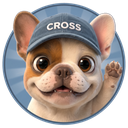
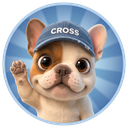
Откатить бледный прогон, принять bully_done эталоном, отдать якорю главенство
Прогон 07.09 забракован владельцем целиком: «бледная херня, некрасивые».
Пак откачен к 06.09, картинки остались в истории.

Две причины, и вторая важнее.

**Мерил не ту величину.** Сравнил среднюю яркость поля плашки — 163 против
эталонных 148 — и решил, что тон совпал. Цвет иконки живёт не в средней
яркости, а в профиле от края к центру. Замер оригинала кольцами: рамка
`#40814C` насыщенностью 65, поле `#95A67A` насыщенностью 44, центр почти
серый — цвет считывается с краешка и гаснет к середине, чтобы не спорить
с самой бульдожкой. У моего было поле насыщенностью 32 и перепад рамки
8 единиц вместо 52.

**Рядом лежала принятая иконка, а я описывал её словами.** `ANCHOR_NOTE`
в generate.py прямым текстом велел модели `Ignore its pose, its crop and
its background` — якорь подавался как образец одной фактуры, а плашку, кадр
и позу задание задавало заново прозой. Отсюда все метания: три захода
на палитру, два на кадр, каждая новая клауза сдвигала кадр, и поза уехала
тоже — бульдожка вышел суше и тоньше принятого.

Оговорка снята. С якоря копируется всё: поза, кадр, плашка с рамкой
и переходом тонов, свет. Подстановка меняет цвет, выражение и предмет,
и только их. Правило: **есть принятая картинка — она главнее описания.**

`bully_done` из прогона 06.09 объявлен эталоном пака и больше
не перегенерируется: пять попыток его догнать ни одна не догнала.
Остальные пятнадцать гонять с ним в якоре.

Плашка в задании описана тремя зонами с замеренными числами: толстая
[…]

diff --git a/иконки/generate.py b/иконки/generate.py
@@ -60,14 +60,33 @@ DEFAULT_REFS = ["bulli-ref.png", "bully-style-ref.png"]
 
 # Фраза из `prompt-stickers.md`: она и есть приём, которым держится стиль
 # поштучных прогонов — второй образец подтверждает, что первый не случайность.
+# Якорь — принятая иконка, и она в этом паке главнее описания словами.
+#
+# Раньше здесь стояло «Ignore its pose, its crop and its background»: якорь
+# подавался как образец одной фактуры, а кадр, плашку и позу задание описывало
+# заново словами. Это и оказалось причиной, по которой пак раз за разом
+# приходил не тем: описание словами проигрывает картинке, и каждая новая
+# клауза про плашку сдвигала кадр. Прогоны 06–07.09 — три захода на палитру
+# и два на кадр, и всё это время принятая иконка лежала рядом неиспользованной.
+#
+# Теперь наоборот: с якоря копируется ВСЁ, кроме того, что подстановка меняет
+# явно, — поза, кадр, плашка, её рамка и переход тонов, свет. Подстановка
+# меняет цвет, выражение и предмет, и только их.
 ANCHOR_NOTE = (
-    "The last attached image is an approved image of this character. Match its "
-    "STYLE exactly and only its style: the same 3D render, the same fine fur "
-    "with individual hairs, the same soft studio lighting and shading, the same "
-    "freckles and whiskers on the muzzle, the same worn fabric texture on the "
-    "cap, the same huge glossy eyes with the same highlights. Ignore its pose, "
-    "its crop and its background — those come from the instructions above, not "
-    "from it. Do not copy its background."
+    "The last attached image is the APPROVED icon of this set. It is the "
+    "master: copy it as closely as you can. Reproduce EXACTLY, without "
+    "redesigning any of it — the same 3D render, the same fine fur with "
+    "individual hairs, the same soft studio lighting and shading, the same "
+    "freckles and whiskers, the same worn fabric texture on the cap, the same "
+    "huge glossy eyes with the same highlights; the same round badge at the "
+    "same size in the frame, with the same thick vivid rim and the same fade "
+    "from the bright ring inwards to the paler centre behind his head; the "
+    "same camera distance, the same crop, the same chubby proportions and the "
+    "same amount of him showing. Think of it as the same photograph retouched, "
+    "not as a new picture of the same character. Change ONLY the three things "
+    "the instructions above name for this one image: the dye colour, the "
+    "expression and the object. Everything else must match the approved icon "
+    "pixel for pixel as far as you can manage."
 )
 
 MIME = {".png": "image/png", ".jpg": "image/jpeg", ".jpeg": "image/jpeg",

diff --git a/иконки/prompt-each.md b/иконки/prompt-each.md
@@ -88,7 +88,7 @@ THE OBJECT: where an object is listed, it is FLAT MATTE WHITE — pure white,
 whatever colour such a thing would normally be — so that it stays visible on
 any badge colour. It is about ONE THIRD of the diameter of the badge — big enough
 to read when the image is shrunk to 21 x 21 pixels, small enough that it never
-makes the head smaller. Simple and low on detail, a silhouette rather than
+makes the head smaller and never makes him thinner. Simple and low on detail, a silhouette rather than
 a drawing. It sits in the lower half of the badge beside the muzzle, in FRONT
 of him, and it may overlap his jowl or his chin; it never covers his eyes or
 his cap, it never pushes him back or down, and it is the ONLY extra object. Where nothing else is listed, the image contains the
@@ -98,48 +98,35 @@ THE BADGE: where the line below starts with the word BADGE and a colour, the
 character is not alone on empty background. He sits inside one big round badge
 of that colour which fills almost the whole image: a complete filled circle,
 centred, its diameter about nine tenths of the width of the image, leaving only
-a thin margin of grey background at the four corners. Nothing is drawn outside
-the circle, and nothing sticks out of it.
+a thin margin of grey background at the four corners.
 
-The badge is LIGHT and airy, never dark and never heavy: the colour named
-below is its colour, and behind his head it lifts a shade lighter still, like
-a soft studio backdrop. A thin ring one shade deeper runs around the very edge,
-and that ring is the only hard edge in it. There may be a few very wide, very
-soft rays a shade lighter than the field, spreading from behind his head — but
-they are barely there, blurred and low in contrast: never dark wedges, never
-sharp spokes, never a second colour, never white. Shrunk to 21 x 21 pixels the
-whole badge must read as one clear light colour and not as a pattern. Nothing
-else is drawn inside the circle. A thin darker ring of the same colour runs around the
-outer edge of the badge, and that ring is the only detail in it. All of it
-stays low in contrast, so that shrunk to 21 x 21 pixels the badge reads as one
-clear solid colour.
+The badge has three zones, from the edge inwards, and the first of them is what
+makes it look like a badge at all:
 
-THE HEAD IS BIGGER THAN THE BADGE AND THE BADGE CROPS IT. He is framed like a
-portrait in a round frame, not like a small figure standing on a coloured disc.
-Place him by these landmarks, and check every one of them:
+1. **A THICK, VIVID RIM.** A bold ring of strong saturated colour running all
+   the way around the edge of the circle. It is THICK — about one twentieth of
+   the badge's diameter, a band you notice, not a hairline. It is the most
+   SATURATED colour in the whole image, and clearly DARKER than the field
+   inside it. Its exact colour is named for each image below. This rim is what
+   makes the badge read as a badge at 21 x 21 pixels; without it the icon
+   looks like a pale washed-out blob.
+2. **A BRIGHT FIELD** just inside the rim, in the lighter, less saturated shade
+   named below. The rim does not fade into it — it is a distinct band with
+   a visible inner edge.
+3. **A PALER, SOFTER CENTRE** behind his head, where the field lightens and
+   desaturates so that it does not compete with him. The transition from the
+   bright field to the pale centre is smooth.
 
-- the tip of his LEFT ear touches the rim of the badge at about 10 o'clock;
-- the tip of his RIGHT ear touches the rim at about 2 o'clock;
-- the crown of his cap touches the rim at 12 o'clock, and the rim CUTS the top
-  of the cap off — the badge is in front of him and he simply ends where it
-  ends;
-- his eyes sit on the horizontal centre line of the badge;
-- his jowls almost touch the rim on the left and on the right at 9 and
-  3 o'clock;
-- his chin and the very top of his chest run off the BOTTOM of the badge and
-  are cut off by the rim there too.
+So the colour runs vivid at the edge, bright next to it, pale behind the dog.
+Nothing else is drawn inside the circle: no rays, no spokes, no stripes,
+no pattern, no white.
 
-The simplest way to get this right: draw him FIRST, at exactly the size and
-crop he has in the attached portrait — that close, that big, filling the frame
-the same way — and only then put the badge in BEHIND him. The badge does not
-change his size at all. It is a round window he is leaning through, and the
-window is SMALLER than his head, so it crops him top, left and right.
-
-There is NO ring of empty badge colour anywhere around him — going inward from
-the rim at the top, the very next thing is his cap. Do NOT shrink him to fit
-inside the circle, do NOT leave a margin of badge colour around him, do NOT
-zoom out to show his shoulders, his front legs or his whole body. Where a mark or an object is
-listed, it sits inside the circle in the lower half, beside the muzzle.
+THE CHARACTER IN THE BADGE: he is chubby, round-cheeked and cute, with heavy
+soft jowls, drawn at the same size and the same distance as in the attached
+images — head large in the frame, his cap and both ears reaching the rim of the
+badge, his chest and the tops of his front paws showing below his muzzle. Do
+NOT slim him down, do NOT tighten the crop around his face, do NOT zoom out and
+leave a ring of empty badge colour above his cap.
 
 Where the line below does not start with BADGE, there is no badge at all: no
 circle, no rays, no gradient.
@@ -366,50 +353,62 @@ no label, no watermark, no border, no frame.
 
 | файл | `<ЯЧЕЙКА>` |
 |---|---|
-| `bully_ready` | `BADGE soft denim blue #6690B5. Cap dyed deeper slate blue #6A7A8C. Chin lifted proudly, wide happy open smile, one front paw raised in a confident presenting gesture. No object.` |
-| `bully_done` | `BADGE light sage green #89A074. Cap dyed deeper green #698265. Eyes closed in a satisfied happy smile, a big flat WHITE check mark beside the muzzle in the lower half of the badge.` |
-| `bully_fail` | `BADGE light warm red #CA6660. Cap dyed deeper red #A8504E. Sad apologetic face: mouth a small unhappy downturned line, eyebrows pulled up in the middle, head dipped slightly. The ears stay big and upright exactly as in the references, and the eyes stay exactly as in the references — huge, round, glossy, cartoon dark-brown with the same big white highlights. They are not realistic dog eyes, not watery, not teary, not narrowed. A big flat WHITE cross mark beside the muzzle in the lower half of the badge.` |
-| `bully_hi` | `BADGE soft denim blue #6690B5. Cap dyed deeper slate blue #6A7A8C. One front paw raised high beside the muzzle waving hello, big warm open smile. No object.` |
+| `bully_ready` | `BADGE with a thick vivid rim #395B7A and a field of soft denim blue #6690B5. Cap dyed deeper slate blue #6A7A8C. Chin lifted proudly, wide happy open smile, one front paw raised in a confident presenting gesture. No object.` |
+| `bully_done` | `BADGE with a thick vivid rim #40814C and a field of light sage green #95A67A. Cap dyed deeper green #698265. Eyes closed in a satisfied happy smile, a big flat WHITE check mark beside the muzzle in the lower half of the badge.` |
+| `bully_fail` | `BADGE with a thick vivid rim #86322D and a field of light warm red #CA6660. Cap dyed deeper red #A8504E. Sad apologetic face: mouth a small unhappy downturned line, eyebrows pulled up in the middle, head dipped slightly. The ears stay big and upright exactly as in the references, and the eyes stay exactly as in the references — huge, round, glossy, cartoon dark-brown with the same big white highlights. They are not realistic dog eyes, not watery, not teary, not narrowed. A big flat WHITE cross mark beside the muzzle in the lower half of the badge.` |
+| `bully_hi` | `BADGE with a thick vivid rim #395B7A and a field of soft denim blue #6690B5. Cap dyed deeper slate blue #6A7A8C. One front paw raised high beside the muzzle waving hello, big warm open smile. No object.` |
 | `bully_helpful` | `PAW. The paw makes a big clear thumbs-up: the outer toe stretched straight UP like a thumb, the other toes curled in towards the pad, pads facing forward. Nothing else in the image.` |
 | `bully_not_helpful` | `PAW. The paw makes a big clear thumbs-down: the outer toe stretched straight DOWN like a thumb, the other toes curled in towards the pad, pads facing forward. It is the same paw as the thumbs-up, in the same place and at the same size, turned over — the two differ ONLY in which way that toe points. Nothing else in the image.` |
 | `bully_detail` | `PAW. The paw holds a short thick yellow pencil clamped between two of its toes and pressed against the pad, tilted as if about to write — no fingers grip it, the toes stay short, thick and rounded. Under the tip of the pencil a small blank white notepad lies flat, clearly smaller than the paw. The notepad is completely blank: no writing, no ruled lines, no letters on it.` |
-| `bully_search` | `BADGE soft denim blue #6690B5. Cap dyed deeper slate blue #6A7A8C. Holding up a big magnifying glass with a thick flat WHITE rim and a white handle, at least half the diameter of the badge, in front of one eye; that eye hugely magnified through the clear lens, the other eye normal size, focused curious expression.` |
-| `bully_high` | `BADGE light sage green #89A074. Cap dyed deeper green #698265. Calm confident closed-mouth smile, eyes bright and steady, head straight. Nothing else in the image at all: no object, no raised paws, no symbol. The green badge is the whole signal.` |
-| `bully_mid` | `BADGE light amber #DDA060. Cap dyed deeper amber #C28B48. Head tilted to one side, one eyebrow raised higher than the other, mouth a small wavy unsure line. Both ears stay big and upright. Nothing else in the image at all: no object, no raised paws, no symbol.` |
-| `bully_none` | `BADGE light warm red #CA6660. Cap dyed deeper red #A8504E. Eyes lowered, mouth a small sad apologetic line, head dipped. Both ears stay big and upright. Nothing else in the image at all: no object, no raised paws, no symbol.` |
-| `bully_unknown` | `BADGE light blue-grey #7E9BB8 — clearly BLUE-grey, cool and tinted, never a neutral, flat or silver grey. Cap dyed plain washed-out grey #808790. Washed out and unpainted. Completely blank puzzled expression, both eyebrows raised high, mouth slightly open, eyes wide and empty. Nothing else in the image at all: no object, no raised paws, no symbol.` |
-| `bully_flag` | `BADGE light warm red #CA6660. Cap dyed deeper red #A8504E. Alarmed wide-open eyes, mouth open mid-bark, holding up a WHITE pennant beside the muzzle: a clear TRIANGLE of white cloth on a short white pole, pointing away from him, about a third of the diameter of the badge. It is a triangular signal flag, NOT a rectangle, NOT a square, NOT a sheet of paper, NOT a napkin.` |
-| `bully_warn` | `BADGE light amber #DDA060. Cap dyed deeper amber #C28B48. Worried expression, mouth a flat tense line, both ears still big and upright. A big flat WHITE warning triangle with a bold dark exclamation mark inside it beside the muzzle, at least half the diameter of the badge.` |
-| `bully_lock` | `BADGE soft denim blue #6690B5. Cap dyed deeper slate blue #6A7A8C. Holding a big closed flat WHITE padlock, at least half the diameter of the badge, up just under the chin in both front paws, stern serious expression, one eyebrow raised.` |
-| `bully_expert` | `BADGE soft denim blue #6690B5. Cap dyed deeper slate blue #6A7A8C. Head turned slightly to one side, one front paw raised pointing off to that side, a big bold flat WHITE arrow beside the muzzle pointing the same way, at least half the diameter of the badge.` |
+| `bully_search` | `BADGE with a thick vivid rim #395B7A and a field of soft denim blue #6690B5. Cap dyed deeper slate blue #6A7A8C. Holding up a big magnifying glass with a thick flat WHITE rim and a white handle, at least half the diameter of the badge, in front of one eye; that eye hugely magnified through the clear lens, the other eye normal size, focused curious expression.` |
+| `bully_high` | `BADGE with a thick vivid rim #40814C and a field of light sage green #95A67A. Cap dyed deeper green #698265. Calm confident closed-mouth smile, eyes bright and steady, head straight. Nothing else in the image at all: no object, no raised paws, no symbol. The green badge is the whole signal.` |
+| `bully_mid` | `BADGE with a thick vivid rim #AD6B25 and a field of light amber #DDA060. Cap dyed deeper amber #C28B48. Head tilted to one side, one eyebrow raised higher than the other, mouth a small wavy unsure line. Both ears stay big and upright. Nothing else in the image at all: no object, no raised paws, no symbol.` |
+| `bully_none` | `BADGE with a thick vivid rim #86322D and a field of light warm red #CA6660. Cap dyed deeper red #A8504E. Eyes lowered, mouth a small sad apologetic line, head dipped. Both ears stay big and upright. Nothing else in the image at all: no object, no raised paws, no symbol.` |
+| `bully_unknown` | `BADGE with a thick vivid rim #4F7090 and a field of light blue-grey #8DA3B8, clearly BLUE-grey and never a neutral, flat or silver grey. Cap dyed plain washed-out grey #808790. Washed out and unpainted. Completely blank puzzled expression, both eyebrows raised high, mouth slightly open, eyes wide and empty. Nothing else in the image at all: no object, no raised paws, no symbol.` |
+| `bully_flag` | `BADGE with a thick vivid rim #86322D and a field of light warm red #CA6660. Cap dyed deeper red #A8504E. Alarmed wide-open eyes, mouth open mid-bark, holding up a WHITE pennant beside the muzzle: a clear TRIANGLE of white cloth on a short white pole, pointing away from him, about a third of the diameter of the badge. It is a triangular signal flag, NOT a rectangle, NOT a square, NOT a sheet of paper, NOT a napkin.` |
+| `bully_warn` | `BADGE with a thick vivid rim #AD6B25 and a field of light amber #DDA060. Cap dyed deeper amber #C28B48. Worried expression, mouth a flat tense line, both ears still big and upright. A big flat WHITE warning triangle with a bold dark exclamation mark inside it beside the muzzle, at least half the diameter of the badge.` |
+| `bully_lock` | `BADGE with a thick vivid rim #395B7A and a field of soft denim blue #6690B5. Cap dyed deeper slate blue #6A7A8C. Holding a big closed flat WHITE padlock, at least half the diameter of the badge, up just under the chin in both front paws, stern serious expression, one eyebrow raised.` |
+| `bully_expert` | `BADGE with a thick vivid rim #395B7A and a field of soft denim blue #6690B5. Cap dyed deeper slate blue #6A7A8C. Head turned slightly to one side, one front paw raised pointing off to that side, a big bold flat WHITE arrow beside the muzzle pointing the same way, at least half the diameter of the badge.` |
 
 Цвета не словами, а числом. Прогон 04.09 показал, зачем: на `GREEN`, `RED`
 и `AMBER-YELLOW` модель отвечает болотным, кирпичным и горчичным — каждый раз
 своим. Шестнадцатеричные коды замерены **по эталонному прогону 06.09**, тому
 самому, который приняли: это не пожелание, а его же цвета, названные точно.
 
-**Плашка светлая, кепка темнее её.** Так устроен эталон, и это обратно тому,
-что планировалось в `prompt-pack-v2.md`: там диск был тёмным, а кепка светлой.
-Замер по эталону: кепка темнее плашки на 17–29 единиц яркости.
+**Плашка — три зоны, и главная из них рамка.** Замер по оригиналу
+`bully_done`, кольцами от центра к краю:
 
-| роль | плашка | кепка | Δ яркости |
+| зона | радиус | цвет | яркость | насыщенность |
+|---|---|---|---|---|
+| центр за мордой | 0.55–0.75 | `#737E71` | 120 | 13 |
+| поле | 0.80–0.90 | `#95A67A` | 156 | 44 |
+| **рамка** | 0.93–1.00 | `#40814C` | 104 | **65** |
+
+Рамка темнее поля на 52 единицы яркости и насыщеннее его в полтора раза,
+толщиной примерно в одну двадцатую диаметра. Она и делает иконку иконкой:
+цвет считывается с краешка, а к центру гаснет, чтобы не спорить с самой
+бульдожкой.
+
+| роль | рамка | поле | кепка |
 |---|---|---|---|
-| ок | `#89A074` | `#698265` | 29 |
-| с оговорками | `#DDA060` | `#C28B48` | 23 |
-| не ок | `#CA6660` | `#A8504E` | 25 |
-| просто работа | `#6690B5` | `#6A7A8C` | 17 |
-| непонятно | `#8DA3B8` | `#808790` | 25 |
+| ок | `#40814C` | `#95A67A` | `#698265` |
+| с оговорками | `#AD6B25` | `#DDA060` | `#C28B48` |
+| не ок | `#86322D` | `#CA6660` | `#A8504E` |
+| просто работа | `#395B7A` | `#6690B5` | `#6A7A8C` |
+| непонятно | `#4F7090` | `#8DA3B8` | `#808790` |
 
-У «непонятно» кепка в самом эталоне отличалась от плашки на 5 единиц
-и на ней тонула; здесь она углублена до тех же 25, что у остальных.
+Зелёная рамка замерена с оригинала, остальные четыре выведены в том же
+контрасте к своему полю. Кепка темнее поля на 17–29 единиц: так у оригинала,
+и это обратно плану из `prompt-pack-v2.md`, где диск был тёмным, а кепка
+светлой.
 
-**Тёмную палитру пробовали и отвергли — прогон 07.09.** По замерам она
-выигрывала: янтарная плашка расходилась с красной вернее, белый предмет
-на тёмном контрастнее. Но пак с ней владелец забраковал с одного взгляда:
-«очень тёмные, потеряла лёгкость». Это и есть ответ на вопрос, зачем нужен
-эталон: он задаёт не только кадр и персонажа, но и тональность, а её
-замерами не выводят. Не «улучшать» палитру вглубь: светлая — решение,
-а не недоделка.
+**Два прогона палитры мимо, и оба — от того, что я мерил не ту величину.**
+Сначала поставил тёмную насыщенную: по замерам она выигрывала, владелец
+забраковал с одного взгляда — «потеряла лёгкость». Потом взял светлую,
+но замерил только СРЕДНЮЮ яркость поля, а не профиль по радиусу, — и получил
+поле насыщенностью 32 вместо 44 и рамку с перепадом 8 вместо 52. Формально
+«светлая, как эталон», на деле бледная размазня. Мерить надо профиль,
+а не одно число: у иконки цвет живёт в перепаде от края к центру.
 
 Предмет во всех семи ячейках белый. Не потому, что так красивее: замок был
 золотой, треугольник жёлтый, флажок красный, стрелка жёлтая — и на 21 px
@@ -517,55 +516,43 @@ no label, no watermark, no border, no frame.
 на 21 px пары; контактные листы `--sheets` показывают то, что числом
 не берётся, — персонажа, уши и крупность морды.
 
-## Что пришло с прогона 2026-09-07 (`out-badge/`, светлая палитра)
+## Что пришло с прогона 2026-09-07 (откачен)
 
-Прогон по исправленному промпту. **Четырнадцать иконок из шестнадцати
-готовы**, на `bully_mid` и `bully_unknown` кончились предоплаченные кредиты
-ключа — API отдал 429 `RESOURCE_EXHAUSTED`. Пополнить в
-[AI Studio → billing](https://ai.google.dev/gemini-api/docs/billing#prepay)
-и добрать две.
+Прогон по исправленному промпту дал четырнадцать иконок из шестнадцати
+(на двух кончились кредиты) — и **владелец забраковал их все**: «бледная
+херня», «некрасивые». Пак откачен к прогону 06.09, картинки остались
+в истории git.
 
-Что починилось против прогона 06.09:
+По персонажу прогон был лучше: уши стоячие во всех, разброс крупности
+головы 0.32 → 0.23, лапа перестала быть человеческой кистью. По виду —
+хуже, и вот чем.
 
-* **Персонаж один во всех.** Уши стоячие везде — четырёх гончих, из-за
-  которых пак и смотрели, нет. Замер: разброс крупности головы 0.32 → 0.23,
-  минимум поднялся с 0.68 до 0.77 диаметра плашки при эталонных 0.85.
-* **Кадр по эталону.** Уши упираются в ободок, макушка кепки им обрезана,
-  подбородок уходит за нижний край плашки.
-* **Лапа стала лапой.** Человеческой кисти у `bully_detail` нет: четыре
-  коротких пальца, подушечки, карандаш зажат между ними. Все три входят
-  слева и одного размера — 123×94, 123×94, 124×96.
-* **Предметы белые и крупные**, читаются на плашке реакции.
+**Первое: я мерил не ту величину.** Замерил среднюю яркость поля плашки,
+получил 163 при эталонных 148 и решил, что тон совпал. А цвет иконки живёт
+не в средней яркости, а в ПРОФИЛЕ от края к центру. Замер профиля
+оригинала — в разделе про палитру: рамка `#40814C` насыщенностью 65, поле
+`#95A67A` насыщенностью 44, центр почти серый. У моего было поле
+насыщенностью 32 и рамка с перепадом 8 единиц вместо 52. Формально
+«светлый, как эталон» — на деле выцветший круг без края.
 
-Три захода на палитру, и это отдельный урок:
+**Второе, и оно важнее: рядом всё это время лежала принятая иконка,
+а я описывал её словами.** Якорь подавался модели с оговоркой
+`Ignore its pose, its crop and its background` — то есть как образец одной
+фактуры; плашку, кадр и позу задание задавало заново текстом. Отсюда все
+метания: три захода на палитру, два на кадр, и каждый раз новая клауза
+про плашку сдвигала кадр, потому что подстановка короткая и вес в ней
+делится. Поза при этом уехала тоже — бульдожка вышел суше и тоньше того,
+что приняли.
 
-1. **Тёмная насыщенная** (`#17583A` и родня). По замерам лучше всех.
-   Забракована владельцем с одного взгляда: «очень тёмные, потеряла
-   лёгкость».
-2. **Светлая по эталону.** Тон совпал: поле `#A0AA8A` при эталонных
-   `#89A074`, яркость 163 против 148.
-3. **Светлая плюс ободок числом в подстановке.** Хуже: ободок не появился,
-   зато морда съехала обратно в мелкую. Клауза перетянула вес с кадра
-   на отделку — откачено. Ободок остался словами, и он слабее эталонного
-   (перепад 8 единиц яркости против 39).
+Оговорка снята (`ANCHOR_NOTE` в `generate.py`): с якоря теперь копируется
+всё — поза, кадр, плашка с её рамкой и переходом тонов, — а подстановка
+меняет только цвет, выражение и предмет. **Правило: если принятая картинка
+есть, она главнее любого описания словами.** Описание остаётся на случай,
+когда якоря нет вовсе.
 
-Отсюда правило: **в подстановку добавляют по одной вещи за раз.** Она
-короткая, и каждая новая клауза в ней отнимает вес у остальных — кадр
-ломается там, где правили цвет.
-
-Что осталось нехорошего:
-
-* **`bully_mid` пришёл с обрезанной плашкой** — силуэт заполняет круг на 81 %
-  при 95 % у остальных. Перекатывать.
-* **`bully_unknown` был годен, но удалён под перекат** ради более синей
-  плашки — и замены не пришло. Отсюда правило про `--force` вместо удаления
-  в разделе «Прогон».
-* **`bully_high` и `bully_unknown` расходятся на 44 при пороге 45** — обе
-  бледные, зелёная и сине-серая. Это две лампочки одного светофора, и там
-  предмета нет вовсе. Смотреть после переката `unknown`.
-* **Ободок слабее эталонного.** Диск читается мягким пятном, а не диском
-  с краем. Числом в подстановке не лечится (заход 3); пробовать словами
-  в шаблоне.
+**Что делать дальше.** Пополнить кредиты и прогнать пятнадцать иконок
+(все, кроме `bully_done` — он принят и не трогается) с ним в якоре;
+команды — в разделе «Прогон».
 
 ## Прогон
 
@@ -573,26 +560,28 @@ no label, no watermark, no border, no frame.
 показывает и персонажа, и кадр в плашке. Для лап якорь свой: морда в якоре
 протаскивает в кадр кепку с ушами, хотя клауза их запрещает.
 
+**`bully_done` не перегенерируется.** Он принят, лежит в `out-badge/`
+и служит якорем всему остальному. Перекатывать его — терять то, к чему
+пак и сводят: у прогонов 06–07.09 на это ушло пять попыток и ни одна
+не догнала оригинал.
+
 ```
-# 1. эталон: одна иконка без якоря. На ней проверяется всё, что задаётся
-#    шаблоном, — кадр в плашке, стоячие уши, читаемость CROSS на цветной кепке
-python3 generate.py prompt-each.md --each --only bully_done --out raw-badge/
-
-# 2. двенадцать остальных с плашкой, эталон третьим референсом
-python3 generate.py prompt-each.md --each --anchor raw-badge/bully_done.png \
+# 1. двенадцать иконок с плашкой, принятый bully_done третьим референсом
+python3 generate.py prompt-each.md --each --anchor out-badge/bully_done.png \
     --only bully_ready,bully_fail,bully_hi,bully_search,bully_high,bully_mid,bully_none,bully_unknown,bully_flag,bully_warn,bully_lock,bully_expert \
-    --out raw-badge/
+    --out raw-badge/ --force
 
-# 3. эталон лапы: тоже одна и тоже без якоря
-python3 generate.py prompt-each.md --each --only bully_helpful --out raw-badge/
+# 2. эталон лапы: одна и без якоря-морды — морда протащит в кадр кепку с ушами
+python3 generate.py prompt-each.md --each --only bully_helpful --out raw-badge/ --force
 
-# 4. две оставшиеся лапы, якорь — принятая лапа
+# 3. две оставшиеся лапы, якорь — принятая лапа
 python3 generate.py prompt-each.md --each --anchor raw-badge/bully_helpful.png \
-    --only bully_not_helpful,bully_detail --out raw-badge/
+    --only bully_not_helpful,bully_detail --out raw-badge/ --force
 
 # нарезка каждой в 128x128 с прозрачным фоном
 for f in raw-badge/*.png; do n=$(basename "$f" .png); \
     python3 slice_grid.py "$f" --cols 1 --rows 1 --names "$n" --out out-badge/; done
+# bully_done не режется заново: он уже лежит в out-badge/ принятым
 
 # проверка до заливки: числом — формат и разъезд, глазами — контактные листы
 python3 check_pack.py out-badge --sheets review/

diff --git a/иконки/README.md b/иконки/README.md
@@ -225,7 +225,7 @@ GEMINI_API_KEY=<ключ>
 |---|---|---|---|
 | `out/` | 02.09, лист `sheet-c.jpg` | v1: морда на прозрачном, цвет несёт кепка | **залито в Mattermost**, это то, что видят люди |
 | `out-each/` | 04.09, по картинке за прогон | тот же v1, без плашки | кандидат, не залит. На 21 px хуже обоих: 41 неразличимая пара из 120 против 6–7 |
-| `out-badge/` | 07.09, по картинке за прогон | **v2: круглая плашка, обратная связь лапой** | кандидат, не залит, **14 иконок из 16**: на `bully_mid` и `bully_unknown` кончились кредиты ключа. Разбор — в `prompt-each.md`, раздел «Что пришло с прогона 2026-09-07». Прогон 06.09 с тем же именем папки лежит в истории git, разбор его — там же разделом выше |
+| `out-badge/` | 06.09, по картинке за прогон | **v2: круглая плашка, обратная связь лапой** | кандидат, не залит. `bully_done` из него **принят как эталон пака** и не перегенерируется: он задаёт позу, кадр и плашку с яркой рамкой. Остальные пятнадцать прогнать заново с ним в якоре. Прогон 07.09 забракован и откачен — разбор в `prompt-each.md` |
 
 Три папки с тремя дизайнами — это и есть та беда, из-за которой пак смотрят
 `check_pack.py` и заливают один раз. Когда новый пак принят и залит, две
